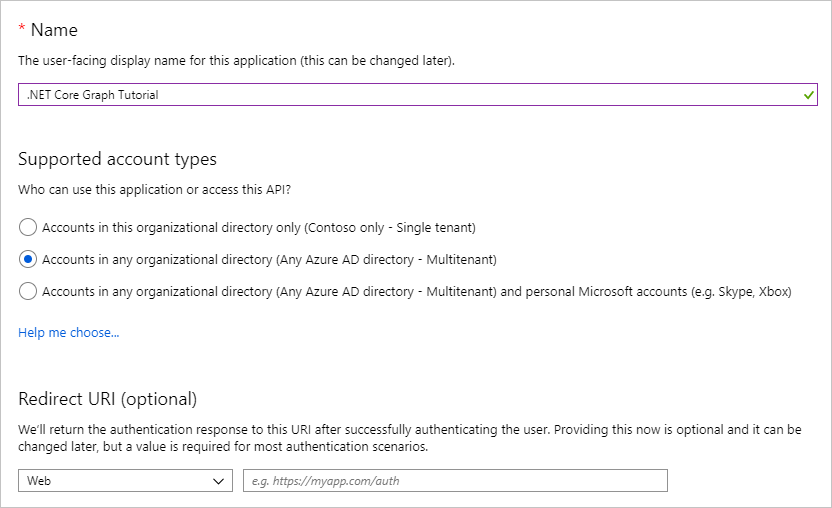
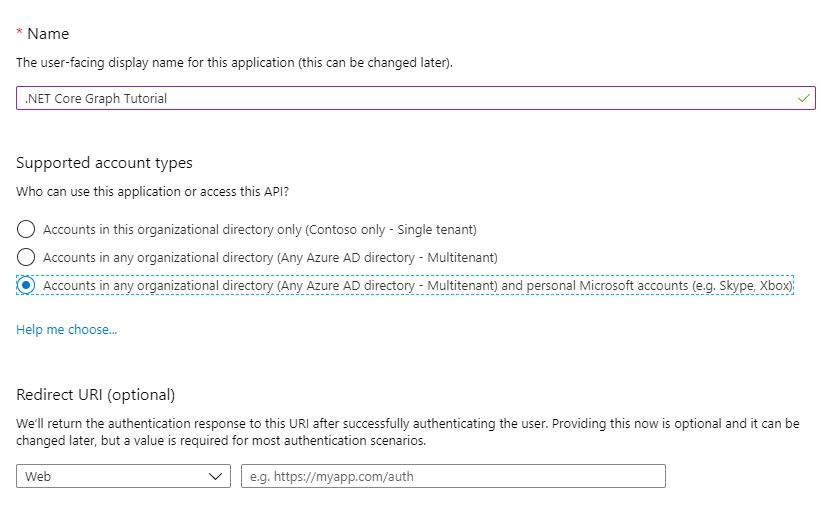
Updated dependencies and enabled personal accounts
Azure supports device code for personal now.

diff --git a/demos/02-add-aad-auth/GraphTutorial/Authentication/DeviceCodeAuthProvider.cs b/demos/02-add-aad-auth/GraphTutorial/Authentication/DeviceCodeAuthProvider.cs
@@ -22,10 +22,7 @@ namespace GraphTutorial
 
             _msalClient = PublicClientApplicationBuilder
                 .Create(appId)
-                // Set the tenant ID to "organizations" to disable personal accounts
-                // Azure OAuth does not support device code flow for personal accounts
-                // See https://docs.microsoft.com/azure/active-directory/develop/v2-oauth2-device-code
-                .WithTenantId("organizations")
+                .WithAuthority(AadAuthorityAudience.AzureAdAndPersonalMicrosoftAccount, true)
                 .Build();
         }
 

diff --git a/demos/03-add-msgraph/GraphTutorial/Authentication/DeviceCodeAuthProvider.cs b/demos/03-add-msgraph/GraphTutorial/Authentication/DeviceCodeAuthProvider.cs
@@ -21,10 +21,7 @@ namespace GraphTutorial
 
             _msalClient = PublicClientApplicationBuilder
                 .Create(appId)
-                // Set the tenant ID to "organizations" to disable personal accounts
-                // Azure OAuth does not support device code flow for personal accounts
-                // See https://docs.microsoft.com/azure/active-directory/develop/v2-oauth2-device-code
-                .WithTenantId("organizations")
+                .WithAuthority(AadAuthorityAudience.AzureAdAndPersonalMicrosoftAccount, true)
                 .Build();
         }
 

diff --git a/tutorial/02-create-app.md b/tutorial/02-create-app.md
@@ -28,12 +28,12 @@ Before moving on, add some additional dependencies that you will use later.
 Run the following commands in your CLI to install the dependencies.
 
 ```Shell
-dotnet add package Microsoft.Extensions.Configuration --version 2.2.0
-dotnet add package Microsoft.Extensions.Configuration.FileExtensions --version 2.2.0
-dotnet add package Microsoft.Extensions.Configuration.Json --version 2.2.0
-dotnet add package Microsoft.Extensions.Configuration.Binder --version 2.2.0
-dotnet add package Microsoft.Identity.Client --version 4.3.1
-dotnet add package Microsoft.Graph --version 1.17.0
+dotnet add package Microsoft.Extensions.Configuration --version 3.1.0
+dotnet add package Microsoft.Extensions.Configuration.FileExtensions --version 3.1.0
+dotnet add package Microsoft.Extensions.Configuration.Json --version 3.1.0
+dotnet add package Microsoft.Extensions.Configuration.Binder --version 3.1.0
+dotnet add package Microsoft.Identity.Client --version 4.7.1
+dotnet add package Microsoft.Graph --version 1.21.0
 ```
 
 ## Design the app

diff --git a/tutorial/04-add-aad-auth.md b/tutorial/04-add-aad-auth.md
@@ -50,10 +50,7 @@ In this section you will create an authentication provider that can be used with
 
                 _msalClient = PublicClientApplicationBuilder
                     .Create(appId)
-                    // Set the tenant ID to "organizations" to disable personal accounts
-                    // Azure OAuth does not support device code flow for personal accounts
-                    // See https://docs.microsoft.com/azure/active-directory/develop/v2-oauth2-device-code
-                    .WithTenantId("organizations")
+                    .WithAuthority(AadAuthorityAudience.AzureAdAndPersonalMicrosoftAccount, true)
                     .Build();
             }
 

diff --git a/tutorial/03-register-app.md b/tutorial/03-register-app.md
@@ -11,7 +11,7 @@ In this exercise you will create a new Azure AD application using the Azure Acti
 1. Select **New registration**. On the **Register an application** page, set the values as follows.
 
     - Set **Name** to `.NET Core Graph Tutorial`.
-    - Set **Supported account types** to **Accounts in any organizational directory**.
+    - Set **Supported account types** to **Accounts in any organizational directory and personal Microsoft accounts**.
     - Leave **Redirect URI** empty.
 
     ![A screenshot of the Register an application page](./images/aad-register-an-app.png)
